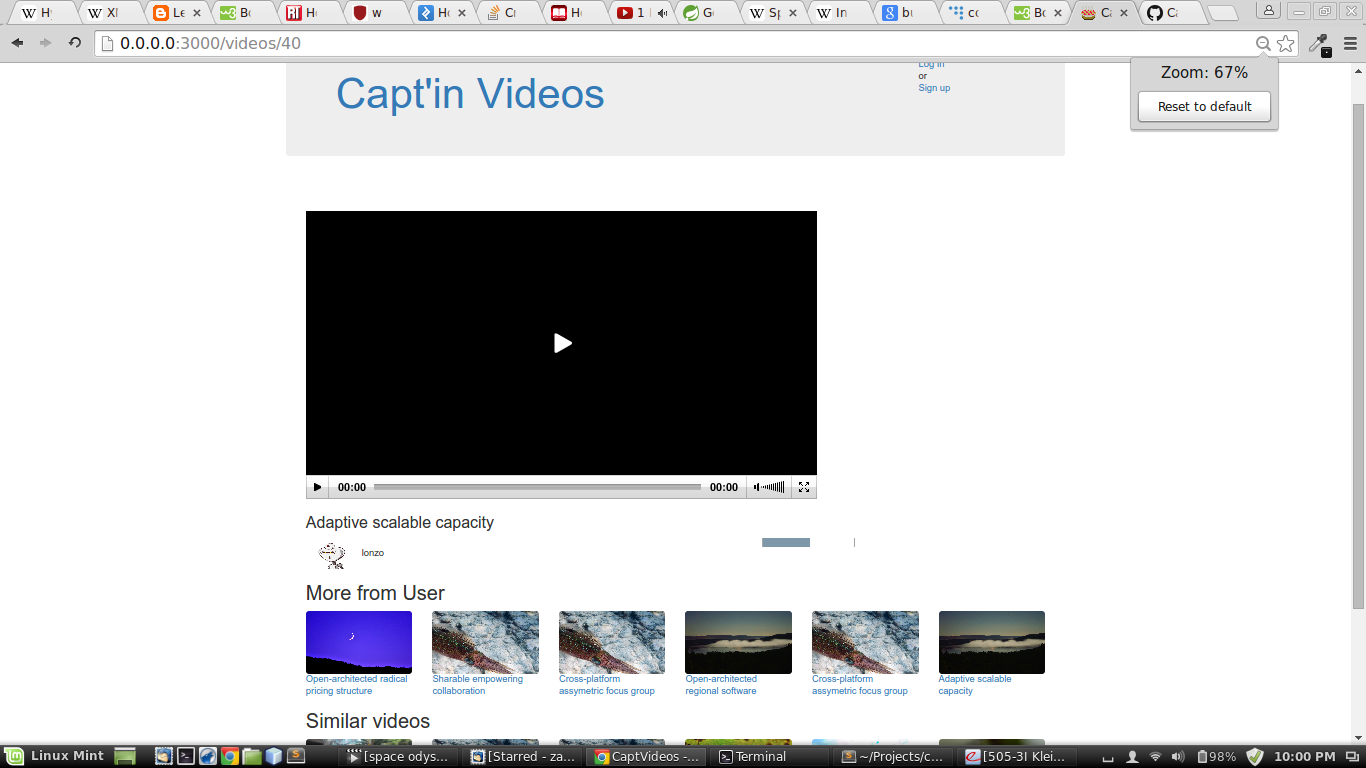
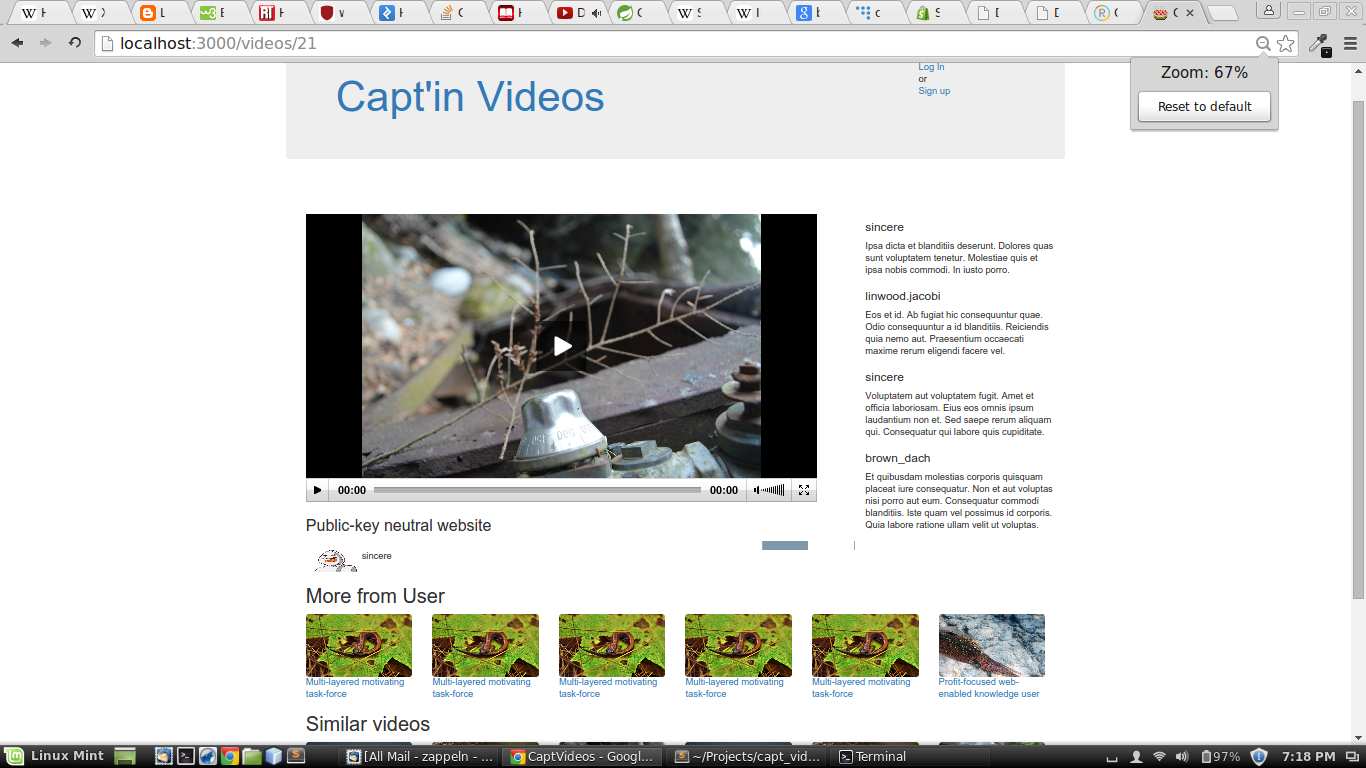
add comments to Video#show

diff --git a/db/seeds.rb b/db/seeds.rb
@@ -63,3 +63,15 @@ end
                 video_id: rand(1..54),
                 score: rand(1..5))
 end
+
+175.times do
+    Comment.create(user_id: rand(1..9),
+                   video_id: rand(1..54),
+                   body: Faker::Lorem.paragraph)
+end
+
+50.times do
+    Message.create(sender_id: rand(1..9),
+                    recipient_id: rand(1..9),
+                    body: Faker::Lorem.paragraph)
+end

diff --git a/app/models/video.rb b/app/models/video.rb
@@ -1,10 +1,18 @@
 class Video < ActiveRecord::Base
   mount_uploader :content, VideoUploader
+  after_create  :create_rating
 
   belongs_to :user
   belongs_to :tag
+  has_many :comments
   has_many :ratings
   has_many :tags
+
+  def create_rating
+    Rating.create(user_id: self.user_id,
+                  video_id: self.id,
+                  score: 3)
+  end
 
   def user_collection
     sample_set = []

diff --git a/db/schema.rb b/db/schema.rb
@@ -33,7 +33,7 @@ ActiveRecord::Schema.define(version: 20141229012021) do
   create_table "messages", force: true do |t|
     t.integer  "sender_id"
     t.integer  "recipient_id"
-    t.text     "messages"
+    t.text     "body"
     t.datetime "created_at"
     t.datetime "updated_at"
   end

diff --git a/db/migrate/20141012160505_create_messages.rb b/db/migrate/20141012160505_create_messages.rb
@@ -3,7 +3,7 @@ class CreateMessages < ActiveRecord::Migration
     create_table :messages do |t|
       t.references :sender
       t.references :recipient
-      t.text       :messages
+      t.text       :body
 
       t.timestamps
     end

diff --git a/app/models/user.rb b/app/models/user.rb
@@ -11,4 +11,5 @@ class User < ActiveRecord::Base
 
   has_many :videos
   has_many :ratings
+  has_many :comments
 end

diff --git a/app/models/comment.rb b/app/models/comment.rb
@@ -1,2 +1,4 @@
 class Comment < ActiveRecord::Base
+  belongs_to :user
+  belongs_to :video
 end

diff --git a/README.md b/README.md
@@ -24,7 +24,6 @@ While this site is currently a work in progress, it has been deployed to [heroku
 
 The Landing page, video player will probably be removed.
 
-
 ![video page](https://raw.githubusercontent.com/Carpk/capt_videos/master/app/assets/images/video_page.png)
 
 Video page, shows uploader and additional videos from uploader. Also videos with matching tags.
